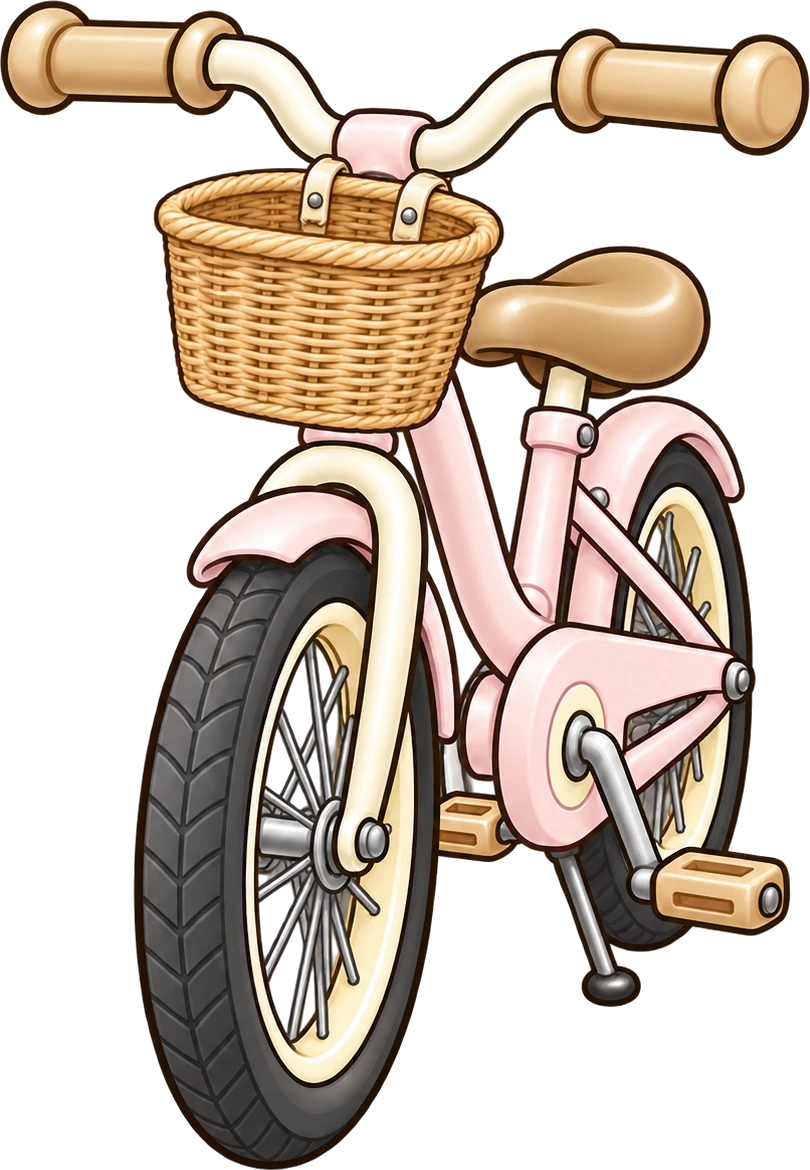
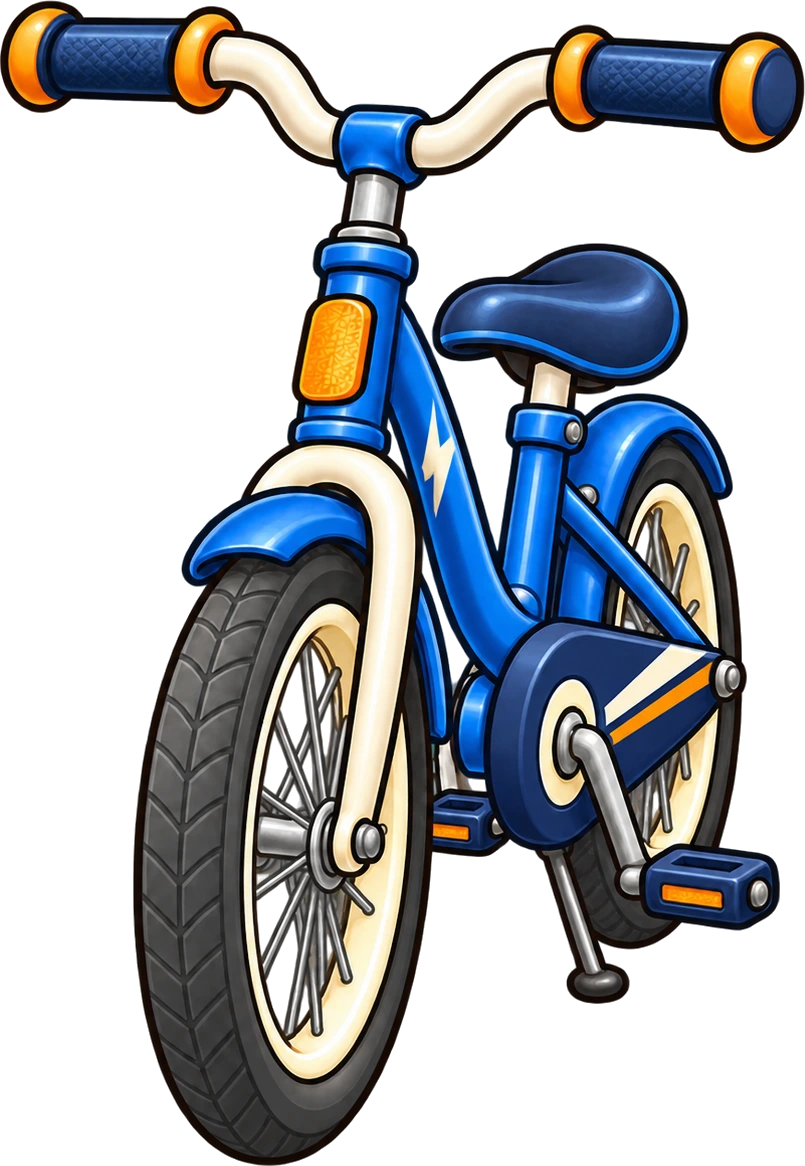
자전거: 남아는 파랑, 여아는 분홍 (#1040)
Claude-Session: https://claude.ai/code/session_018maNuYqDfFyRSe9uKpZhPR

diff --git a/src/data/avatarEquipment.js b/src/data/avatarEquipment.js
@@ -516,8 +516,9 @@ export const AVATAR_CATALOG = [
   { id: "hand_kickboard", slot: "hand", label: "킥보드", emoji: "🛴", price:DECOR_PRICE.rare, rarity: "rare", theme: "common", z: 12, stageShiftX: 0.038, img: "assets/avatar/hand/kickboard.webp", imgGirl: "assets/avatar/hand/kickboard-girl.webp", thumb: "assets/avatar/thumb/hand_kickboard.webp", thumbGirl: "assets/avatar/thumb/hand_kickboard-girl.webp" },
   /* 자전거 [2026-10-15] — 남녀 공용. 연분홍·크림 어린이 자전거(라탄 바구니, 사용자 원화 1222×1287 → 비표준 PNG 블록·반투명 잡티 지우고 오림 810×1170).
      킥보드처럼 캐릭터 왼쪽 땅에 세워 둠 — 높이 380(배율 0.325)·오른쪽 끝 x330·바닥 y912, 상자 (67,532,330,912), 몸 뒤 z 12.
-     킥보드와 같은 stageShiftX 0.038 — 자전거는 제자리, 아바타만 자전거와 펫 사이 가운데로. */
-  { id: "hand_bicycle", slot: "hand", label: "자전거", emoji: "🚲", price:DECOR_PRICE.rare, rarity: "rare", theme: "common", z: 12, stageShiftX: 0.038, img: "assets/avatar/hand/bicycle.webp", thumb: "assets/avatar/thumb/hand_bicycle.webp" },
+     킥보드와 같은 stageShiftX 0.038 — 자전거는 제자리, 아바타만 자전거와 펫 사이 가운데로.
+     [2026-10-15] 남아는 파랑 자전거(사용자 원화 → 오림 805×1166, 같은 높이·자리, img ?v=2), 분홍은 여아 전용(imgGirl/thumbGirl, bicycle-girl.webp). */
+  { id: "hand_bicycle", slot: "hand", label: "자전거", emoji: "🚲", price:DECOR_PRICE.rare, rarity: "rare", theme: "common", z: 12, stageShiftX: 0.038, img: "assets/avatar/hand/bicycle.webp?v=2", imgGirl: "assets/avatar/hand/bicycle-girl.webp", thumb: "assets/avatar/thumb/hand_bicycle.webp?v=2", thumbGirl: "assets/avatar/thumb/hand_bicycle-girl.webp" },
   /* 바다 산소통 [2026-10-05] — 남아. 산소통(사용자 원화 196×433)은 등 뒤 맨 뒤(z 12), 어깨끈 두 줄(283×172)은 맨 앞(zFront 48).
      사용자 배치 참고 그림을 얼굴 매칭(0.847, 물안경이 눈을 가려 코~입으로)으로 아바타 좌표에 올려 위치를 땄다.
      산소통 배율 0.524·원점 (599,361) (참고 그림 쪽이 조금 홀쭉해서 높이·오른쪽 끝 기준), 끈 매칭 0.967 배율 0.700×0.658·원점 (420,431).

diff --git a/art-src/README.md b/art-src/README.md
@@ -659,4 +659,5 @@ bbox로 여백만 잘라내고 배포본은 높이 480px로 축소했다(전부 
 | kickboard-src.webp | **킥보드 원화 남녀 공용 (사용자 원화 2026-10-14)** — 민트·크림 킥보드(주황 손잡이). 원화의 반투명 잡티(알파 24 미만)는 지우고 오려 보관(647×1198). 사용자 배치 그림(홈 화면 캡처)대로 캐릭터 왼쪽 땅에 — 배율 0.33·원점 (113,511), 상자 (113,511,327,906), z 12. (처음엔 착용 시 캐릭터 묶음을 가운데로 밀었으나, 사용자 요청으로 아바타는 가운데 그대로.) → 킥보드·펫은 그대로 두고 아바타만 둘 사이 가운데로(오른쪽 3.8%, stageShiftX 0.038). 상점 그림은 원화를 세로 160px 로 | avatar/hand/kickboard.webp · thumb/hand_kickboard.webp |
 | kickboard-girl-src.webp | **킥보드 원화 여아 (사용자 원화 2026-10-14)** — 분홍·크림 킥보드(주황 손잡이), 민트 킥보드와 같은 모양. 잡티 지우고 오려 보관(648×1199). 민트와 같은 배율 0.33·원점 (113,511), 상자 (113,511,327,907) | avatar/hand/kickboard-girl.webp · thumb/hand_kickboard-girl.webp |
 | thumb-{hand_tank_boy,back_explorer,back_rocket,back_cross_boy,back_tube_boy,back_xpack_boy,back_acorn_boy}.webp | **남아 가방 상점 아이콘 (사용자 원화 2026-10-15)** — 바다 산소통·해적 가방·로켓 가방·번개 크로스백·튜브 가방·탐험가 가방·도토리 가방의 꾸미기 목록 아이콘을 사용자 아이콘 그림으로 교체(잡티 지우고 오려 보관). 상점 그림은 세로 160px 로 같은 이름 덮어쓰기, ?v 올림 | thumb/<id>.webp |
-| bicycle-src.webp | **자전거 원화 남녀 공용 (사용자 원화 2026-10-15)** — 연분홍·크림 어린이 자전거(라탄 바구니). 비표준 PNG 블록·반투명 잡티 지우고 오려 보관(810×1170). 킥보드처럼 캐릭터 왼쪽 땅에 — 높이 380·오른쪽 끝 x330·바닥 y912, 상자 (67,532,330,912), z 12, stageShiftX 0.038(아바타만 가운데로). 상점 그림은 원화를 세로 160px 로 | avatar/hand/bicycle.webp · thumb/hand_bicycle.webp |
+| bicycle-girl-src.webp | **자전거 원화 여아 (사용자 원화 2026-10-15, 처음엔 남녀 공용)** — 연분홍·크림 어린이 자전거(라탄 바구니). 비표준 PNG 블록·반투명 잡티 지우고 오려 보관(810×1170). 킥보드처럼 캐릭터 왼쪽 땅에 — 높이 380·오른쪽 끝 x330·바닥 y912, 상자 (67,532,330,912), z 12, stageShiftX 0.038(아바타만 가운데로). 상점 그림은 원화를 세로 160px 로 | avatar/hand/bicycle-girl.webp · thumb/hand_bicycle-girl.webp |
+| bicycle-src.webp | **자전거 원화 남아 (사용자 원화 2026-10-15)** — 파랑·크림 어린이 자전거(번개 무늬). 비표준 PNG 블록·잡티 지우고 오려 보관(805×1166). 여아 분홍 자전거와 같은 높이 380·오른쪽 끝 x330·바닥 y912, z 12 | avatar/hand/bicycle.webp · thumb/hand_bicycle.webp |
